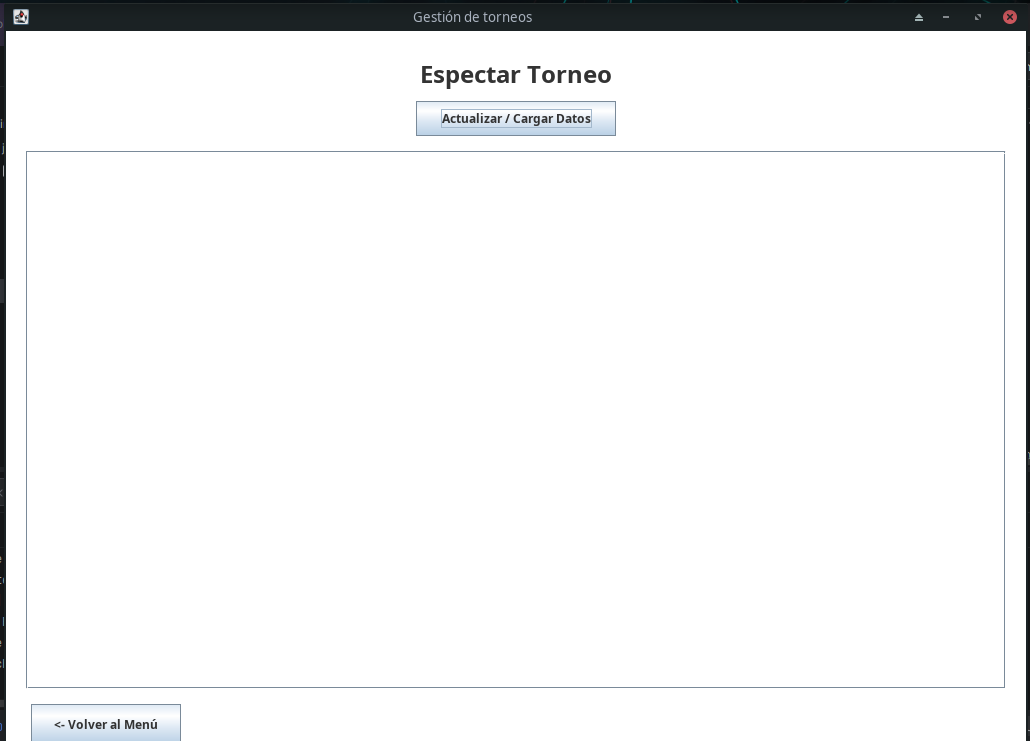
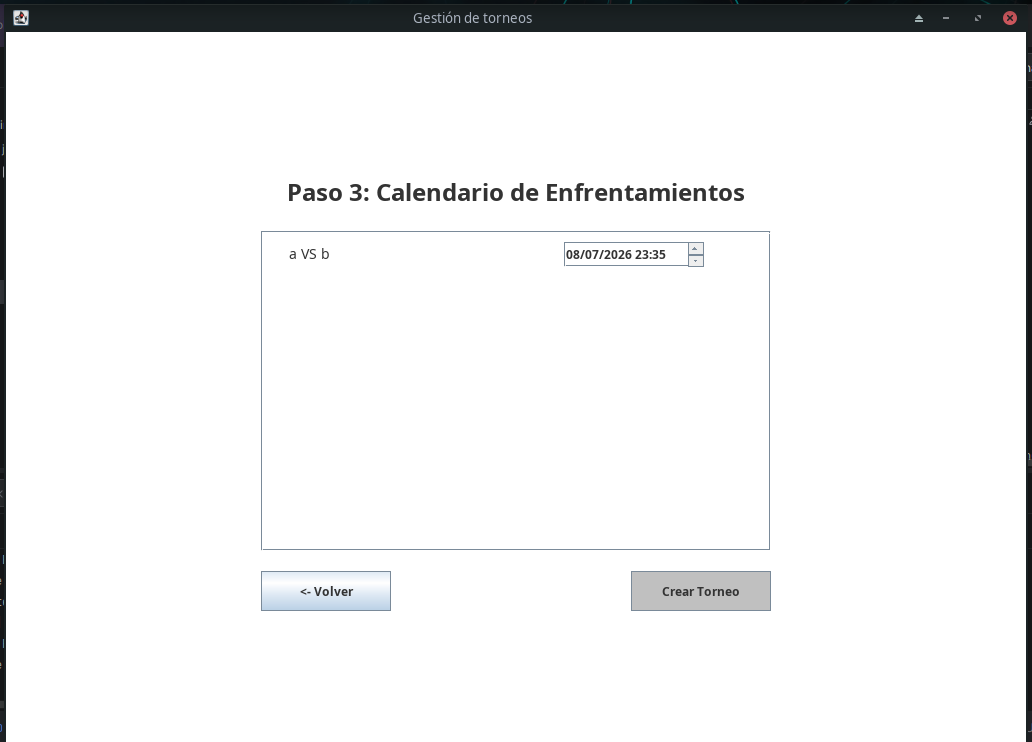
Correccion en el nombre de las imagenes de la interfaz grafica y una imagen mas agregada

diff --git a/README.md b/README.md
@@ -21,7 +21,11 @@ El siguiente diagrama ilustra las funcionalidades del sistema y las interaccione
 ---
 
 ## 4. Capturas de Pantalla de la Interfaz
-*(Asistente de creación guiado mediante CardLayout).*
+![Menu](https://github.com/BastianCab/ProyectoFinal-DOO/blob/main/1.png)
+![Crear Torneo paso 1](https://github.com/BastianCab/ProyectoFinal-DOO/blob/main/2.png)
+![Crear Torneo paso 2](https://github.com/BastianCab/ProyectoFinal-DOO/blob/main/3.png)
+![Crear Torneo paso 3]()
+![Espectar Torneo]()
 --
 ## 6. Patrones de Diseño Implementados
 